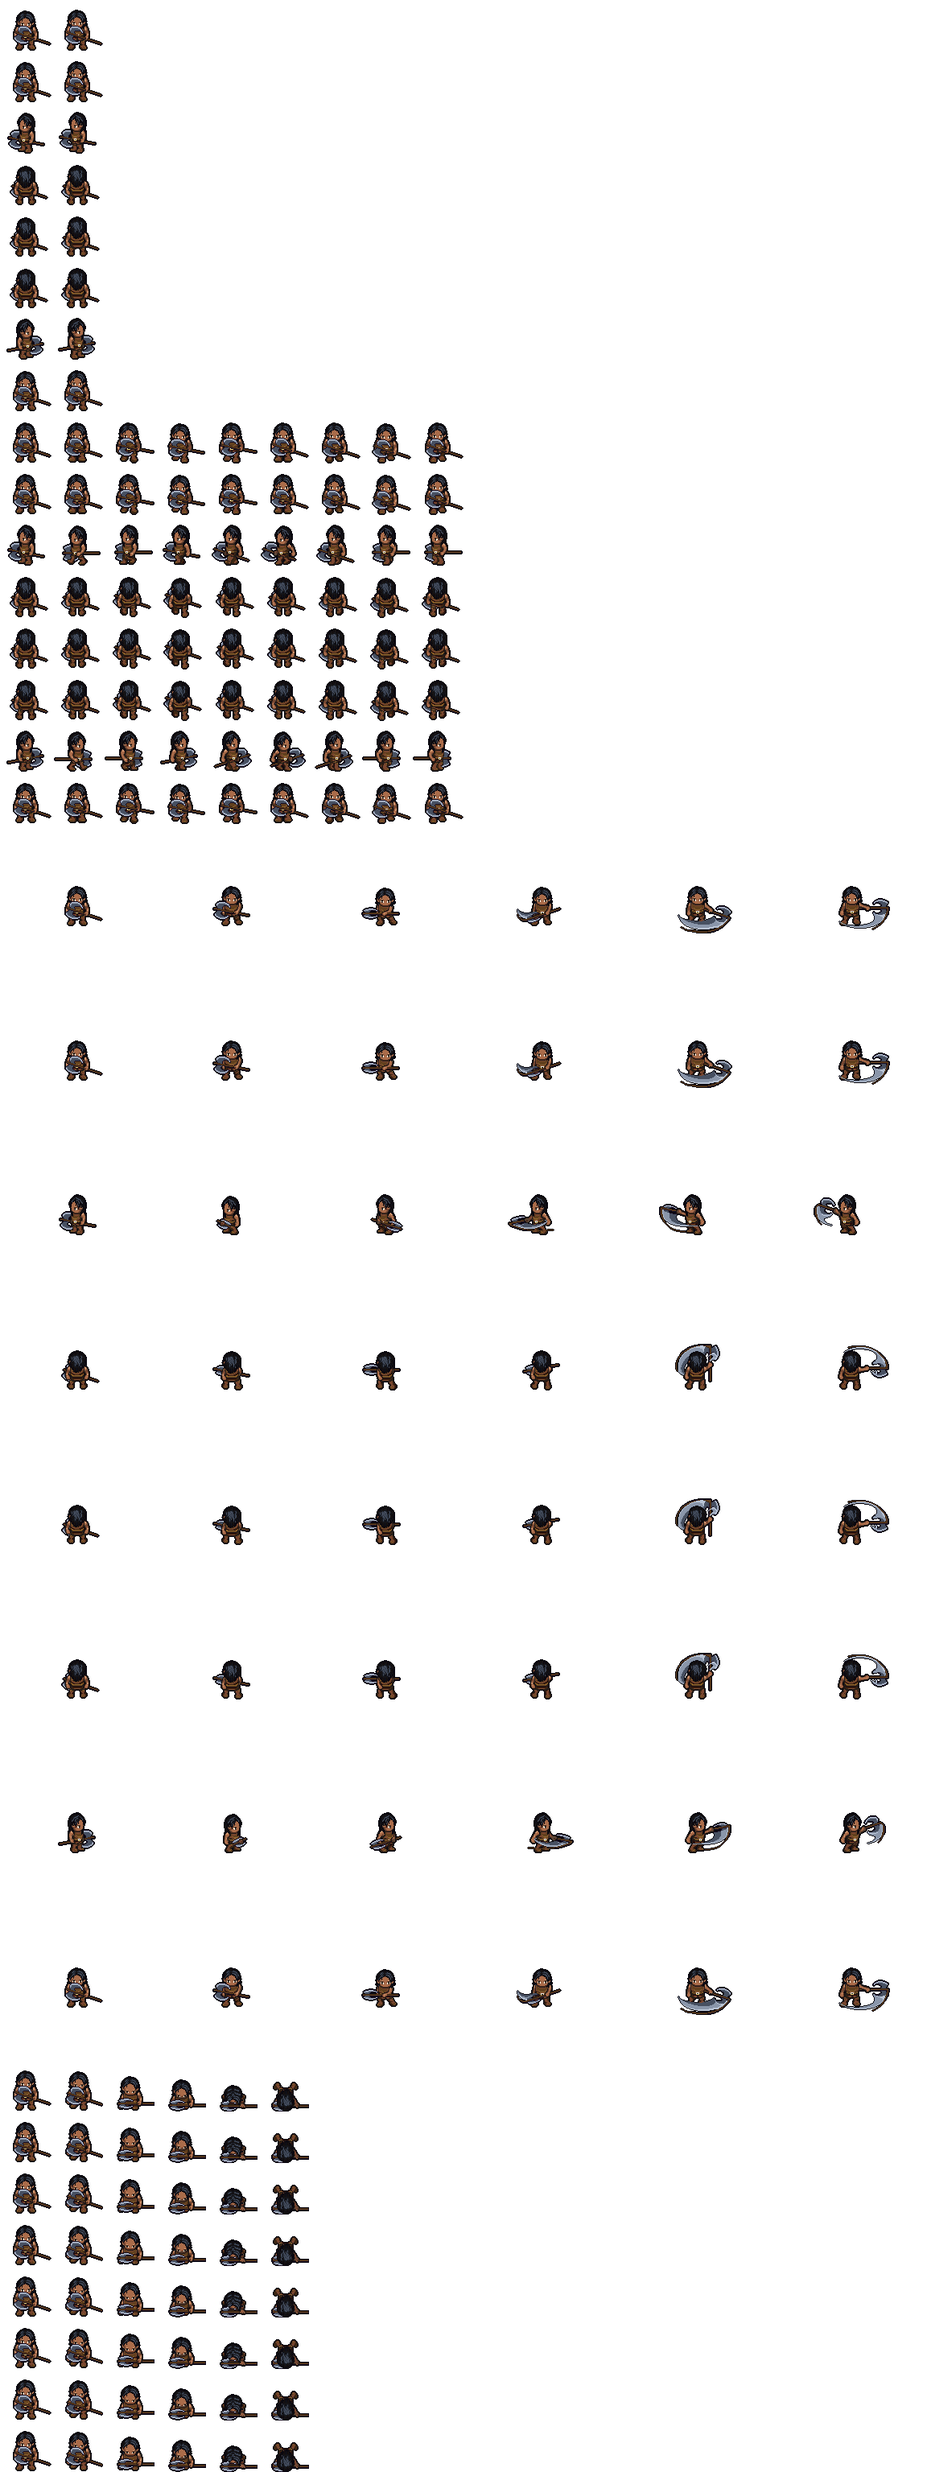
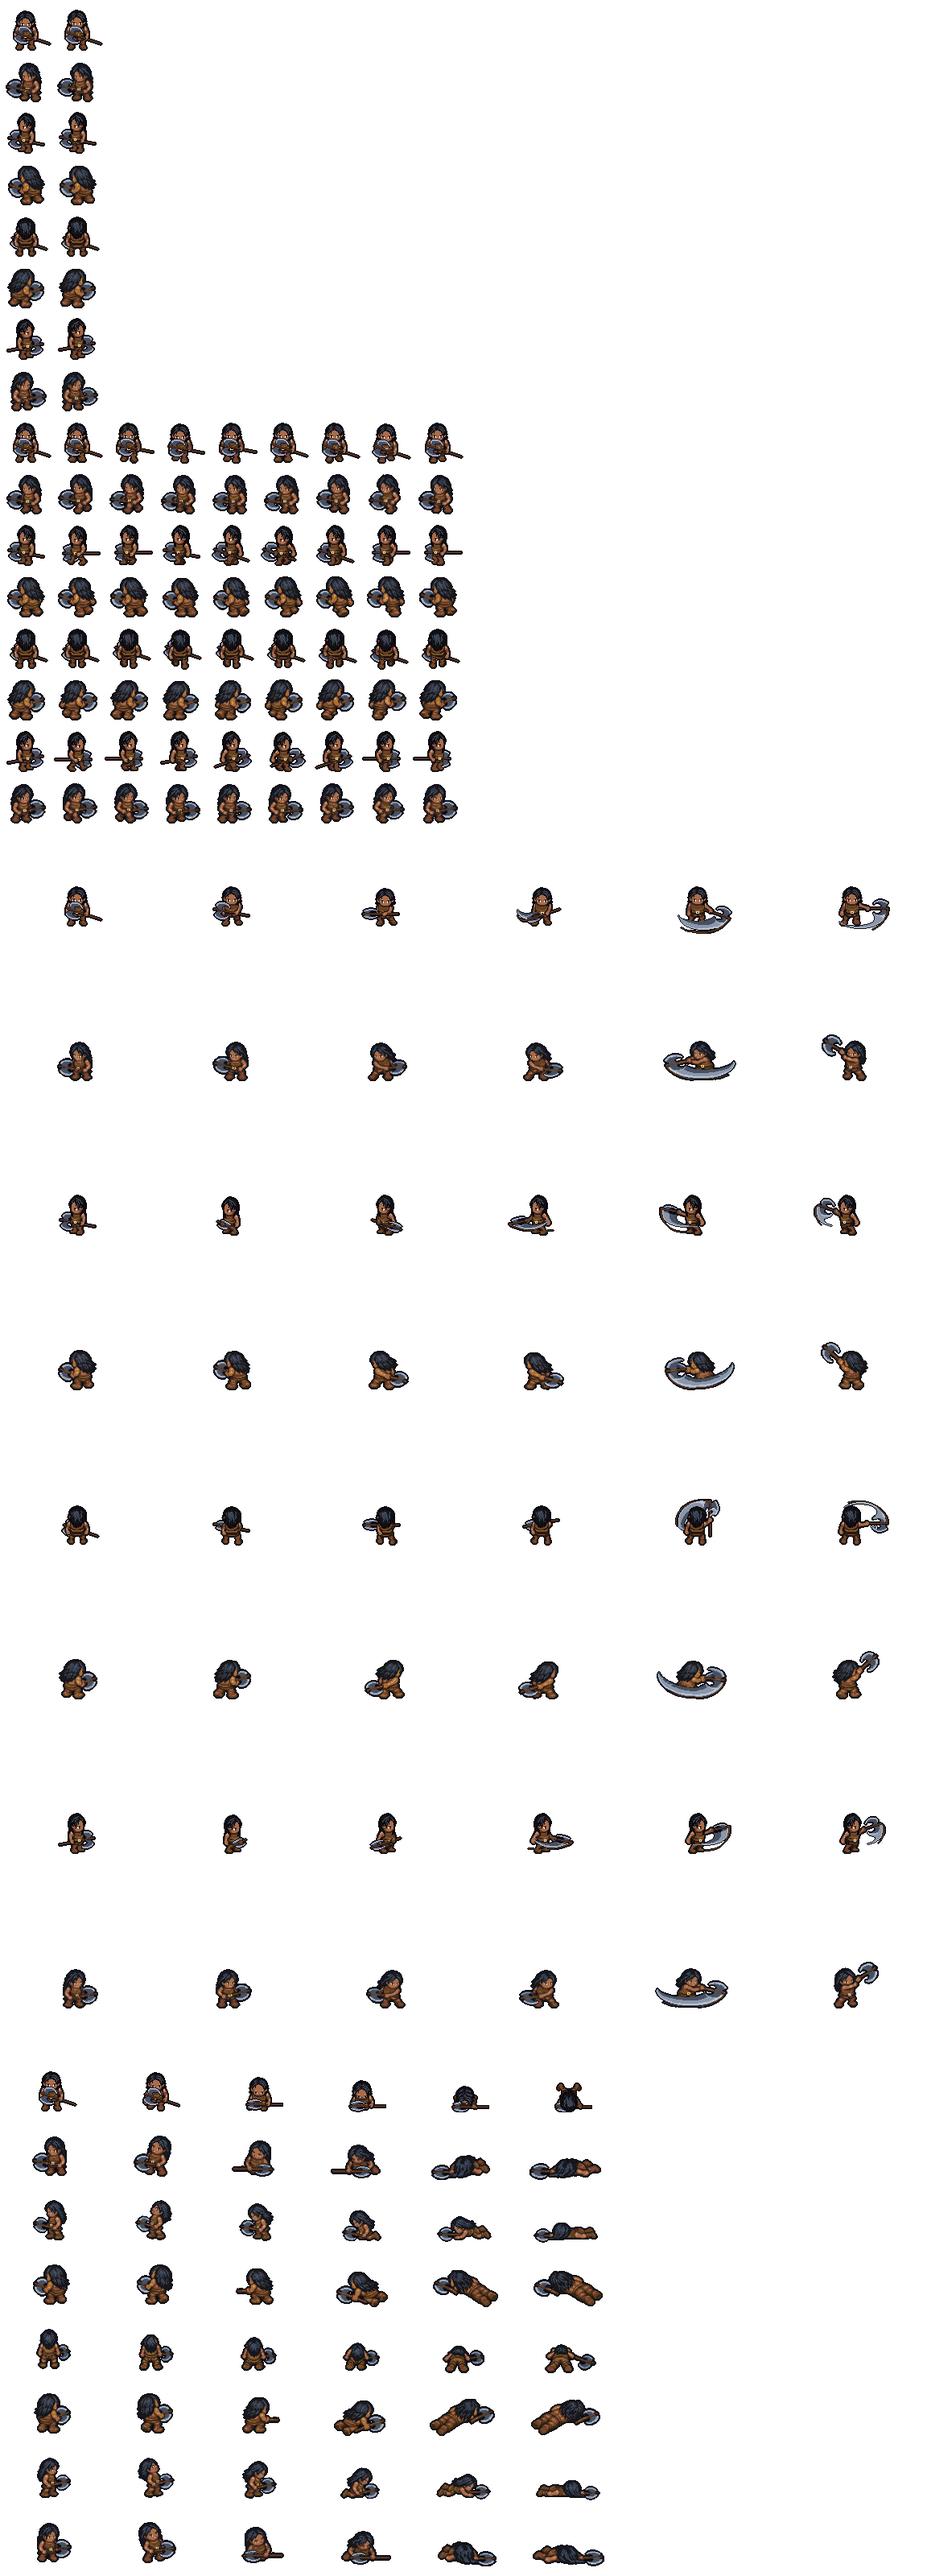
DEEP16: the barbarian in all eight facings, from the art desk's ART-66
The fourth LPC figure through tools/lpc-diag-sheet.py: npcbarbarian_p0's SE
(SW mirrored) and NE (NW mirrored) in every row and E's (W mirrored) and N's
Hurt, from ART-66's four pages (deep16/_src/npcbarbarian/ART-66/, each
matching its manifest sha256). Every LPC drawing stays. trooper_p0,
npcfighter_p0 and npcpaladin_p0 unchanged (pixelate.py p0 reproduces all four
byte for byte). Its spec: `chan` on every page, N's Hurt `against` the N idle;
no other keys wanted. dev/bench16.py trooper mode=show sheet=npcbarbarian_p0
plays every row twice. Eyes row eyes-barbarian-eight-1015.

Griz, 10-15: "Yes, we might manage all the snoot art before we're out of usage".

diff --git a/js/eyes.js b/js/eyes.js
@@ -278,6 +278,9 @@
     'eyes-paladin-eight-1015': { pri: 2, group: G2, title: 'The paladin in all eight facings, his CAST too: the art desk’s ART-63, the third LPC figure (10-15)', pt: 'the bestiary §26, part 2 (tools/lpc-diag-sheet.py; deep16/art/npcpaladin_p0; snoot-mode/js/view.js V.FULL8) · eyes',
       url: 'deep16/?show=patrollady&sheet=npcpaladin_p0&fresh=1',
       look: 'The paladin -- the class paladin’s look in DEEP16 (the Pocket DM’s, deep16/?npc=paladin) and the paladin heroes in the Snoot. On the test ground the patrol ladies wear his sheet: they CAST (his prayer: hands together, arms out, arms up), walk and fall, every row twice. SE and SW are new in every row, CAST too, the sword on screen-right and the shield on screen-left as LPC holds them; NE and NW likewise, from behind-right. E, W and N fall forward now (HURT is his death, the shield dropped as LPC’s own fall drops it); S keeps LPC’s fall. Judge the turns S to SE to E and N to NE to E: one figure, one size, one colour (the shield-free pages were toned against LPC’s CAST). SE’s CAST turns only a little from the front, NE’s only a little from the back. His ATTACK: deep16/?show=trooper&sheet=npcpaladin_p0 (the troopers swing, never cast). In the Snoot his stacks now face NE and NW truly.' },
+    'eyes-barbarian-eight-1015': { pri: 2, group: G2, title: 'The barbarian in all eight facings: the art desk’s ART-66, the fourth LPC figure (10-15)', pt: 'the bestiary §26, part 3 (tools/lpc-diag-sheet.py; deep16/art/npcbarbarian_p0; snoot-mode/js/view.js V.FULL8) · eyes',
+      url: 'deep16/?show=trooper&sheet=npcbarbarian_p0&fresh=1',
+      look: 'The barbarian -- the class barbarian’s look in DEEP16 (the Pocket DM’s, deep16/?npc=barbarian) and the plains tribes’ men in the Snoot. On the test ground the troopers wear his sheet, every row twice. SE and SW are new in every row: three-quarter front, the great axe held low on screen-right; NE and NW likewise, from behind-right. E, W and N now fall forward (HURT is his death); S keeps LPC’s fall. Judge the turns S to SE to E and N to NE to E: one figure, one size. ATTACK 5 is a broad silver sweep, as drawn. N’s last two falls are foreshortened hard from behind: a body on the ground, or a crouch? In the Snoot his stacks now face NE and NW truly.' },
     'eyes-snoot-ring-1015c': { pri: 1, group: G2, title: 'THE SNOOT: the ring of commands, the camera a step closer, the ground past the edge, the stacks in formation; AVOID, surprise, the road bonus (10-15)', pt: 'the Snoot mode §15 (snoot-mode/js/view.js, ui.js, rules.js) · eyes',
       url: 'snoot-mode/?fresh',
       look: 'NEW BATTLE. The map opens a step closer than the whole map; the dim ground runs on past every edge, the west, south and pirate roads out of it. The wheel (or + and -) steps the zoom about the mouse, a drag or the arrows pan. Each stack stands in its formation -- a line abreast across its facing, a column in file, the death-watch in a ring -- with a chevron on the side it faces. Click Newland\'s road patrol: a ring of buttons round it -- HOLD, CHARGE?, AVOID, LINE, COLUMN, SQUARE and the two turns (the four get only their orders); AVOID holds and slips a hex away from anything that comes. Resolve days: a fight opens with each side\'s die for surprise (SURPRISE! on a 1 or 2: the unready side taken in the flank in the first round); a unit under AVOID that is come at shows THEY SLIP AWAY or CAUGHT with its roll; the Dominion\'s wagons at the inn avoid. Newland\'s horse in column on the road march two hexes further; foot in column no further.' },

diff --git a/deep16/index.html b/deep16/index.html
@@ -77,7 +77,7 @@
 <script src="js/art.js?v=e1ce4cf012"></script>
 <script src="data/cavern.js?v=647c1a184a"></script>
 <script src="data/maps.js?v=971b4fe9e6"></script>
-<script src="data/sprites.js?v=0848f78b2c"></script>
+<script src="data/sprites.js?v=6e7dc0c36b"></script>
 <script src="js/sprites.js?v=82883d13a8"></script>
 <script src="js/save.js?v=65142ffd7b"></script>
 <script src="data/spells.js?v=2b8e2ed5b1"></script>
@@ -143,7 +143,7 @@
 <script src="js/embed.js?v=fde3abdebd"></script>
 <script src="js/show.js?v=8e550011f4"></script>
 <script src="js/skyshow.js?v=7151daab7a"></script>
-<script src="../js/eyes.js?v=d91c95718f"></script>
+<script src="../js/eyes.js?v=a85216bffd"></script>
 <script src="js/onegallery.js?v=175d0ae3bd"></script>
 <script src="js/main.js?v=39cd8f6139"></script>
 </body>

diff --git a/deep16/data/sprites.js b/deep16/data/sprites.js
@@ -5768,7 +5768,7 @@
 }
 },
 "npcbarbarian_p0": {
-"image": "art/npcbarbarian_p0.png?v=7c36f59579",
+"image": "art/npcbarbarian_p0.png?v=0da0c91d3d",
 "fw": 64,
 "fh": 64,
 "ax": 32,
@@ -5804,12 +5804,31 @@
 },
 "hurt": {
 "y": 2560,
-"fw": 64,
-"fh": 64,
-"ax": 32,
+"fw": 128,
+"fh": 80,
+"ax": 64,
 "ay": 61,
 "frames": 6,
 "fps": 10
+}
+},
+"diag": {
+"by": "tools/lpc-diag-sheet.py",
+"from": "ART-66",
+"drawn": [
+"SE idle/walk/attack/hurt",
+"NE idle/walk/attack/hurt",
+"E hurt",
+"N hurt"
+],
+"owed": [],
+"lpc_cells": {
+"hurt": [
+64,
+64,
+32,
+61
+]
 }
 }
 },

diff --git a/tools/lpc-diag-sheet.py b/tools/lpc-diag-sheet.py
@@ -174,6 +174,31 @@ FIGS = {
                          rows=[('hurt', (160, 200, 2172, 555), (560, 602), NUM(6))]),
         },
         owed={}),
+    'npcbarbarian': dict(                                     # ART-66, 10-15: four pages (deep16/_src/npcbarbarian/ART-66/)
+        dir='npcbarbarian/ART-66',
+        pages={
+            'H1P1': dict(file='ART-66_HEAD-1_PAGE-1.png', view='SE', ref=('idle', '1'), chan=14,          # SE: Idle 2, Walk 9, Attack 6, Hurt 6
+                         text=[(0, 95, 180, 140), (0, 305, 180, 350), (0, 513, 180, 560), (0, 716, 180, 762),
+                               (180, 192, 1774, 225), (180, 402, 1774, 432), (180, 618, 1774, 645), (180, 828, 1774, 858)],
+                         rows=[('idle', (180, 20, 1774, 192), (192, 225), NUM(2)),
+                               ('walk', (180, 228, 1774, 402), (402, 432), NUM(9)),
+                               ('attack', (180, 434, 1774, 618), (618, 645), NUM(6)),
+                               ('hurt', (180, 650, 1774, 858), (834, 858), NUM(6))]),
+            'H2P1': dict(file='ART-66_HEAD-2_PAGE-1.png', view='NE', ref=('idle', '1'), chan=14,          # NE: Idle 2, Walk 9, Attack 6, Hurt 6
+                         text=[(0, 95, 180, 140), (0, 303, 180, 350), (0, 512, 180, 560), (0, 712, 180, 760),
+                               (180, 190, 1774, 222), (180, 399, 1774, 428), (180, 615, 1774, 645), (180, 824, 1774, 850)],
+                         rows=[('idle', (180, 15, 1774, 190), (190, 222), NUM(2)),
+                               ('walk', (180, 228, 1774, 399), (399, 428), NUM(9)),
+                               ('attack', (180, 425, 1774, 615), (615, 645), NUM(6)),
+                               ('hurt', (180, 650, 1774, 824), (824, 850), NUM(6))]),
+            'H4P1': dict(file='ART-66_HEAD-4_PAGE-1.png', view='E', ref=('hurt', '1'), chan=14,           # E: Hurt 6
+                         text=[(0, 315, 180, 375), (180, 512, 2172, 550)],
+                         rows=[('hurt', (180, 220, 2172, 512), (512, 550), NUM(6))]),
+            'H5P1': dict(file='ART-66_HEAD-5_PAGE-1.png', view='N', ref=('hurt', '1'), against='N', chan=14,   # N: Hurt 6
+                         text=[(0, 355, 180, 432), (180, 536, 2048, 590)],
+                         rows=[('hurt', (180, 230, 2048, 536), (536, 590), NUM(6))]),
+        },
+        owed={}),
 }
 
 
